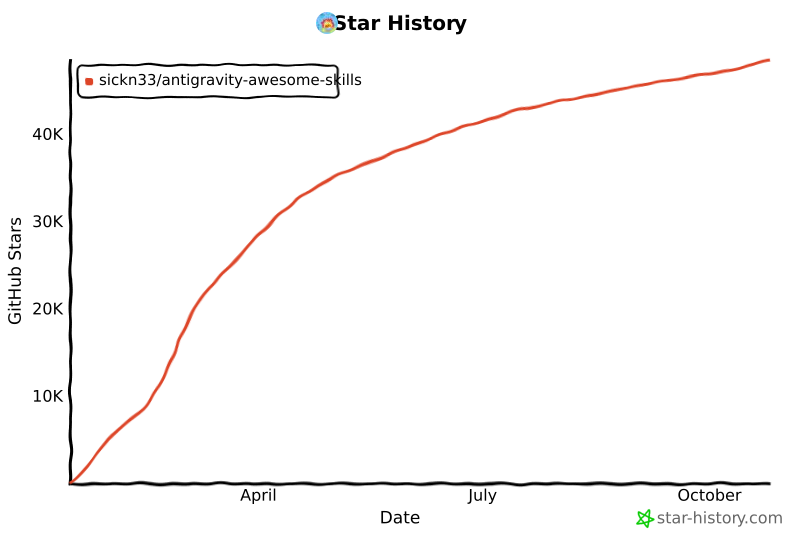
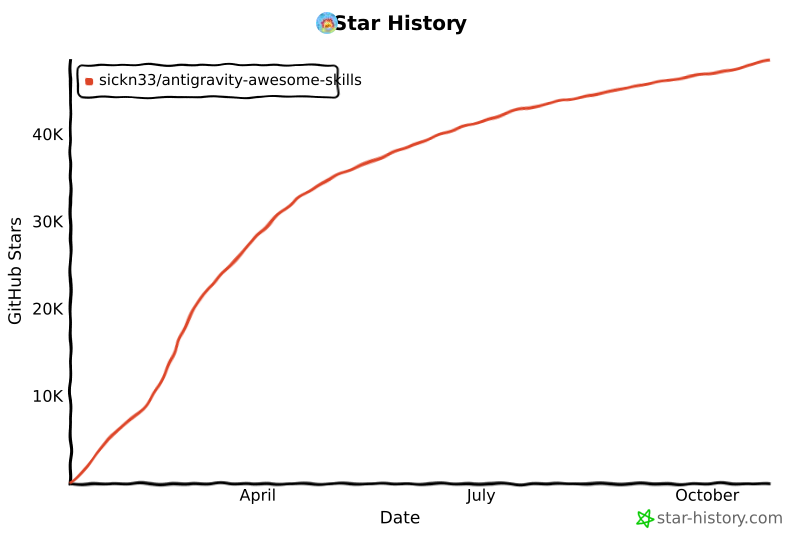
chore: update star history chart

diff --git a/README.md b/README.md
@@ -505,14 +505,14 @@ We officially thank the following contributors for their help in making this rep
 ## Star History
 
 <a href="https://www.star-history.com/#sickn33/antigravity-awesome-skills&type=date&legend=top-left">
- <img alt="Star History Chart" src="https://api.star-history.com/svg?repos=sickn33/antigravity-awesome-skills&type=date&legend=top-left&cache_bust=202610261206" />
+ <img alt="Star History Chart" src="https://api.star-history.com/svg?repos=sickn33/antigravity-awesome-skills&type=date&legend=top-left&cache_bust=202610271126" />
 </a>
 
 <a href="https://www.star-history.com/sickn33/antigravity-awesome-skills">
  <picture>
-   <source media="(prefers-color-scheme: dark)" srcset="https://api.star-history.com/chart?repos=sickn33/antigravity-awesome-skills&style=landscape1&theme=dark&cache_bust=202610261206" />
-   <source media="(prefers-color-scheme: light)" srcset="https://api.star-history.com/chart?repos=sickn33/antigravity-awesome-skills&style=landscape1&cache_bust=202610261206" />
-   <img alt="Star History Chart" src="https://api.star-history.com/chart?repos=sickn33/antigravity-awesome-skills&style=landscape1&cache_bust=202610261206" />
+   <source media="(prefers-color-scheme: dark)" srcset="https://api.star-history.com/chart?repos=sickn33/antigravity-awesome-skills&style=landscape1&theme=dark&cache_bust=202610271126" />
+   <source media="(prefers-color-scheme: light)" srcset="https://api.star-history.com/chart?repos=sickn33/antigravity-awesome-skills&style=landscape1&cache_bust=202610271126" />
+   <img alt="Star History Chart" src="https://api.star-history.com/chart?repos=sickn33/antigravity-awesome-skills&style=landscape1&cache_bust=202610271126" />
  </picture>
 </a>
 
